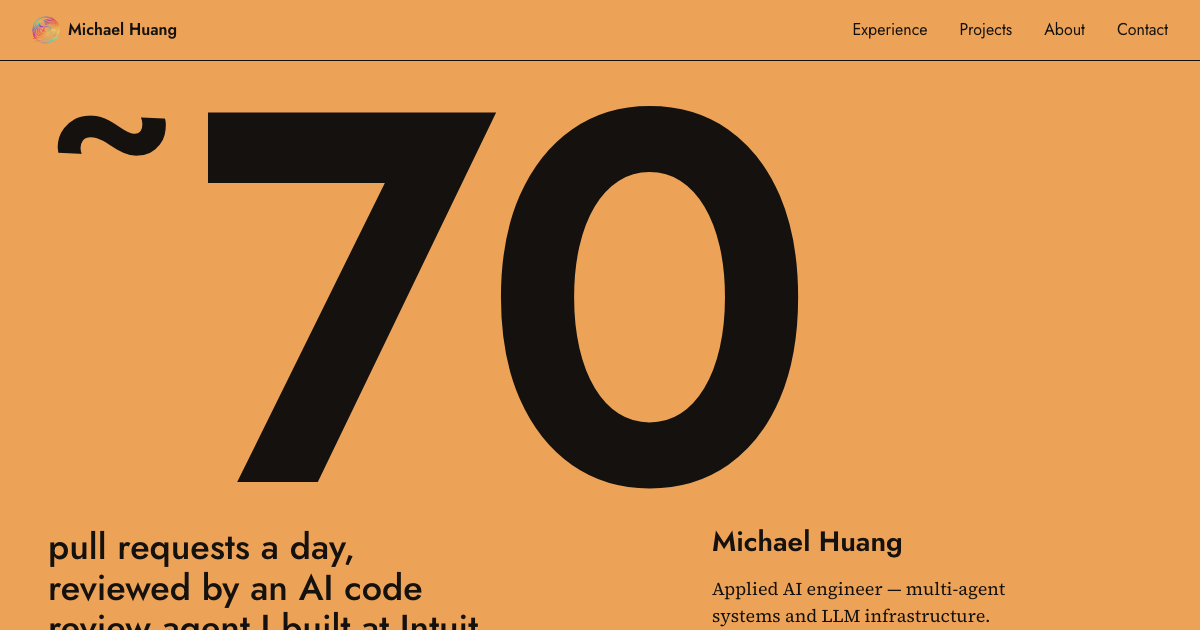
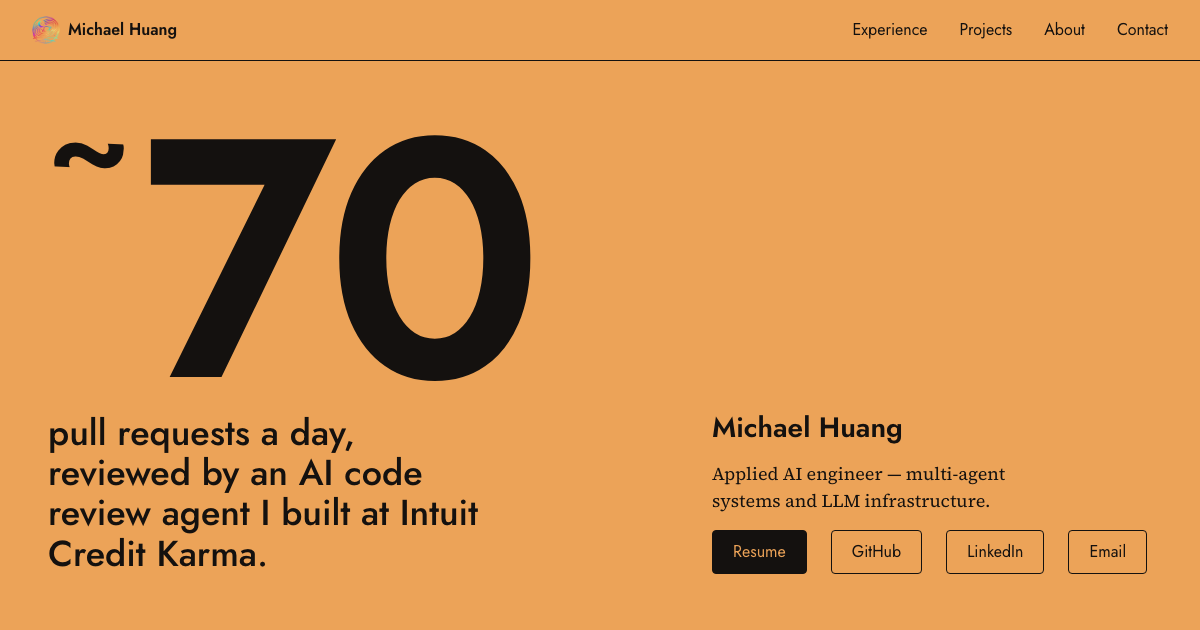
Size the hero numeral from the viewport height as well as its width
On wide, short screens the width-only size pushed the caption and
links to the bottom edge or past it. The numeral is now the smaller of
44vw and 125svh - 28rem, so the figure, caption, name and Resume link
fit the first view with bottom padding. The share image is
regenerated from the built hero, uncut.

Changed region(s): [[0.0308, 0.1508, 0.8633, 1.0], [0.8942, 0.8746, 0.9558, 0.9048]]

diff --git a/e2e/fold.spec.ts b/e2e/fold.spec.ts
@@ -13,6 +13,10 @@ const top = (page: Page, sel: string) =>
 for (const [w, h] of [
   [1280, 800],
   [375, 812],
+  [1366, 768],
+  [1366, 650],
+  [1200, 630],
+  [1920, 1080],
 ]) {
   test(`hero fits the first view at ${w}x${h}`, async ({ page }) => {
     await open(page, w, h)
@@ -27,7 +31,7 @@ for (const [w, h] of [
         .first()
         .evaluate((e) => e.getBoundingClientRect().toJSON())
       expect(r.top, sel).toBeGreaterThanOrEqual(0)
-      expect(r.bottom, sel).toBeLessThanOrEqual(h)
+      expect(r.bottom, sel).toBeLessThanOrEqual(h - (w > 599 ? 24 : 0))
       expect(r.left, sel).toBeGreaterThanOrEqual(0)
       expect(r.right, sel).toBeLessThanOrEqual(w)
     }

diff --git a/src/components/Figure.module.css b/src/components/Figure.module.css
@@ -31,7 +31,7 @@
 }
 
 [data-size="hero"] .numeral {
-  font-size: clamp(7.5rem, 44vw, 45rem);
+  font-size: clamp(7.5rem, min(44vw, calc(125svh - 28rem)), 45rem);
 }
 
 /* Phones: leave room for WCAG 1.4.12 letter spacing at 320px */
